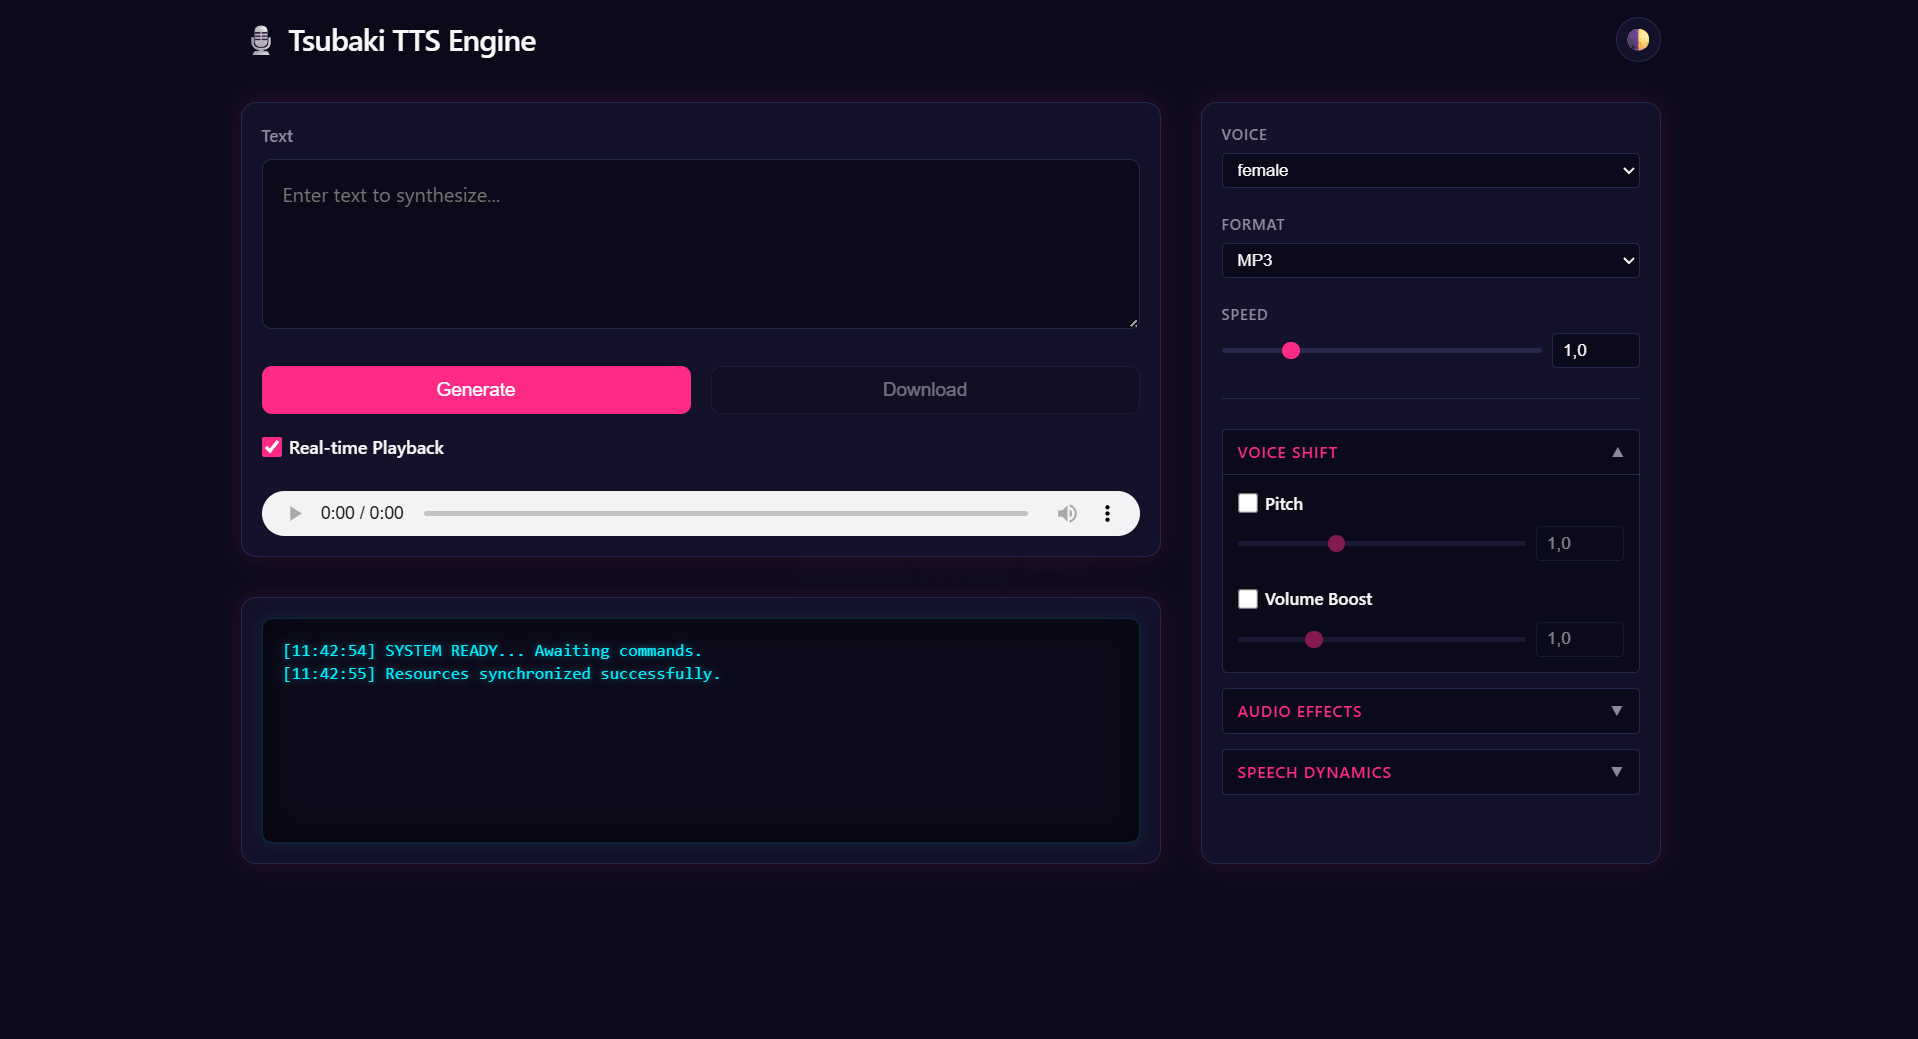
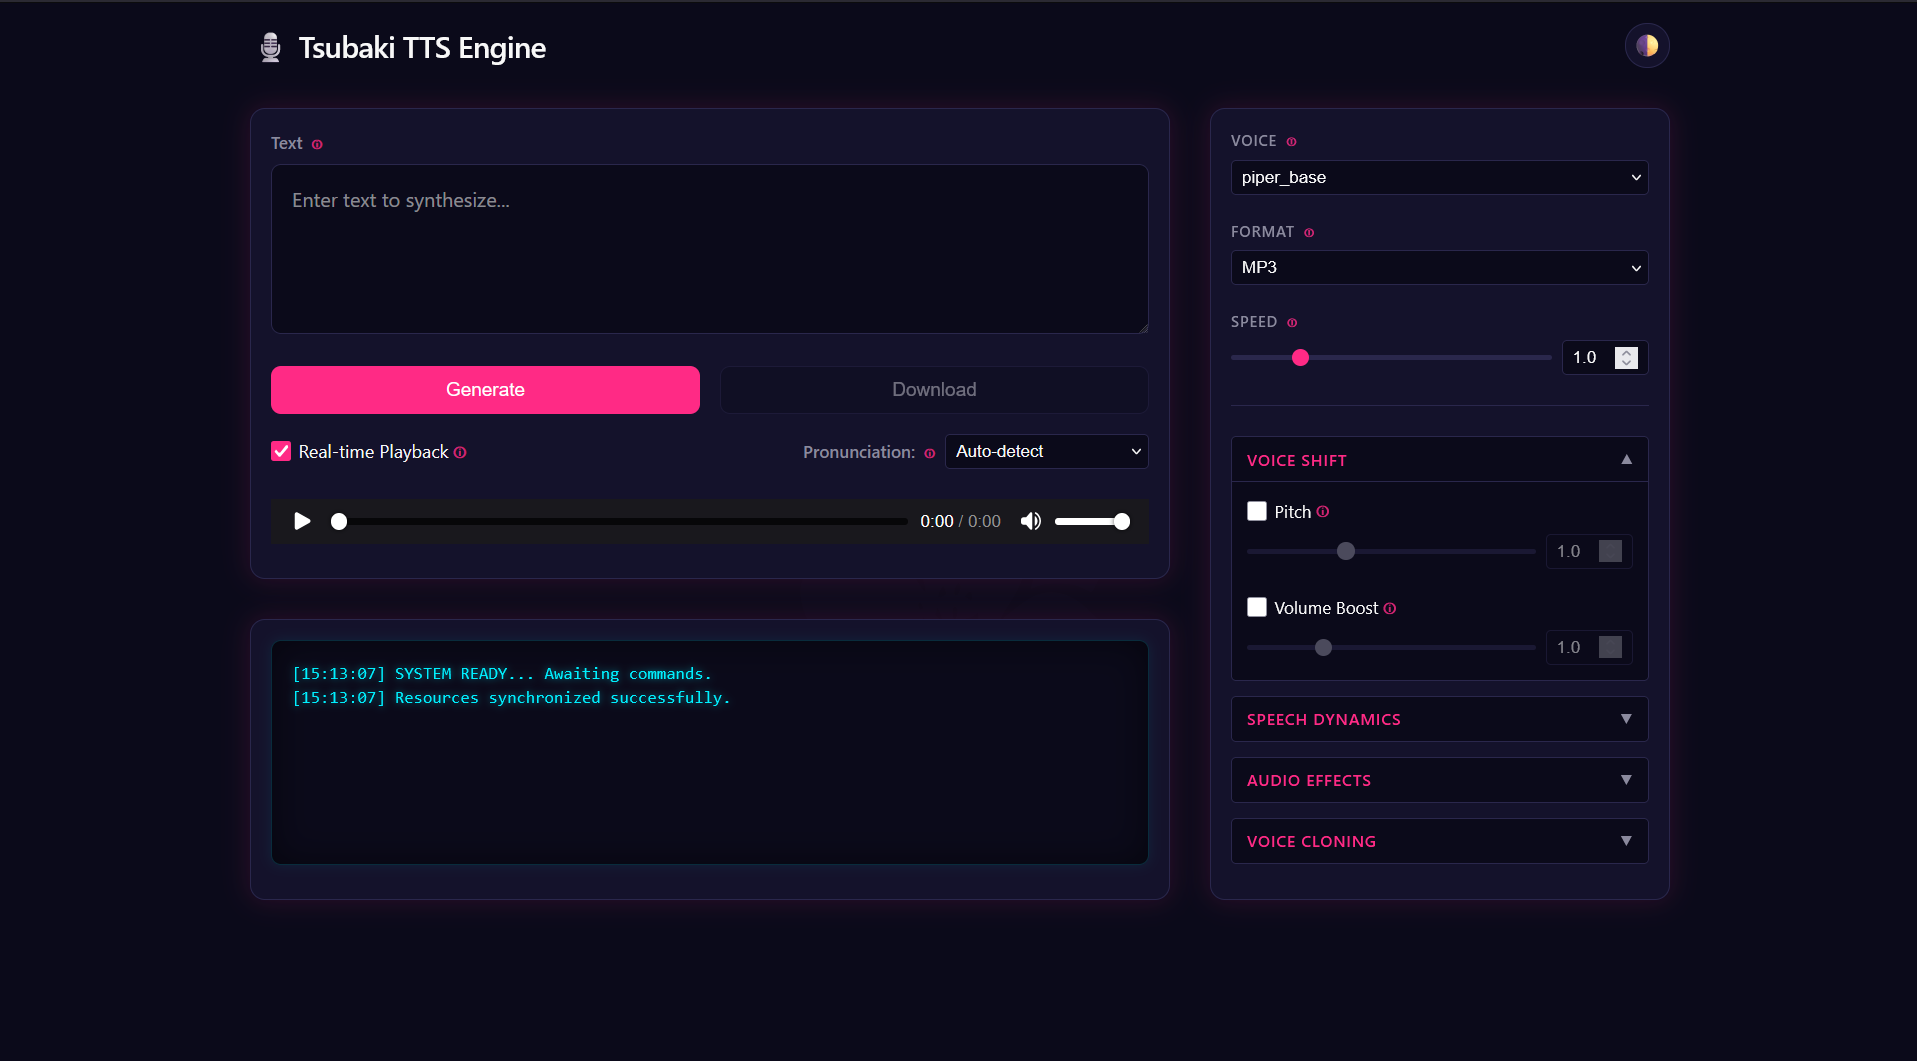
tsubaki tts image

diff --git a/ONNX_Runner/wwwroot/index.html b/ONNX_Runner/wwwroot/index.html
@@ -44,8 +44,7 @@
                     <button id="generateBtn" class="btn-primary help-tooltip"
                         data-tooltip="Generate speech using the current settings. The dashboard sends them to Tsubaki's /tsbk/audio/speech endpoint.">Generate</button>
                     <button id="downloadBtn" class="btn-secondary help-tooltip tooltip-right"
-                        data-tooltip="Download the most recently generated result in the selected format."
-                        disabled>Download</button>
+                        data-tooltip="Download the most recently generated result." disabled>Download</button>
                 </div>
 
                 <!-- OPTIONS SECTION: Pronunciation Selection and Single Line Streaming -->

diff --git a/ONNX_Runner/readMe.md b/ONNX_Runner/readMe.md
@@ -123,11 +123,22 @@ The release includes a default Piper voice model. If you want to use a different
 
 On Windows, open the extracted folder and double-click `TsubakiTTS.exe`.
 
-On Linux, install eSpeak NG and the MP3 library, then run `TsubakiTTS` from the extracted folder. On Debian or Ubuntu:
+On Linux, install eSpeak NG and the MP3 library. On Debian or Ubuntu:
 
 ```bash
 sudo apt-get update
 sudo apt-get install -y espeak-ng libmp3lame0
+```
+
+On Arch Linux:
+
+```bash
+sudo pacman -Syu --needed espeak-ng lame
+```
+
+Then, from the extracted folder, run:
+
+```bash
 chmod +x ./TsubakiTTS
 ./TsubakiTTS
 ```
